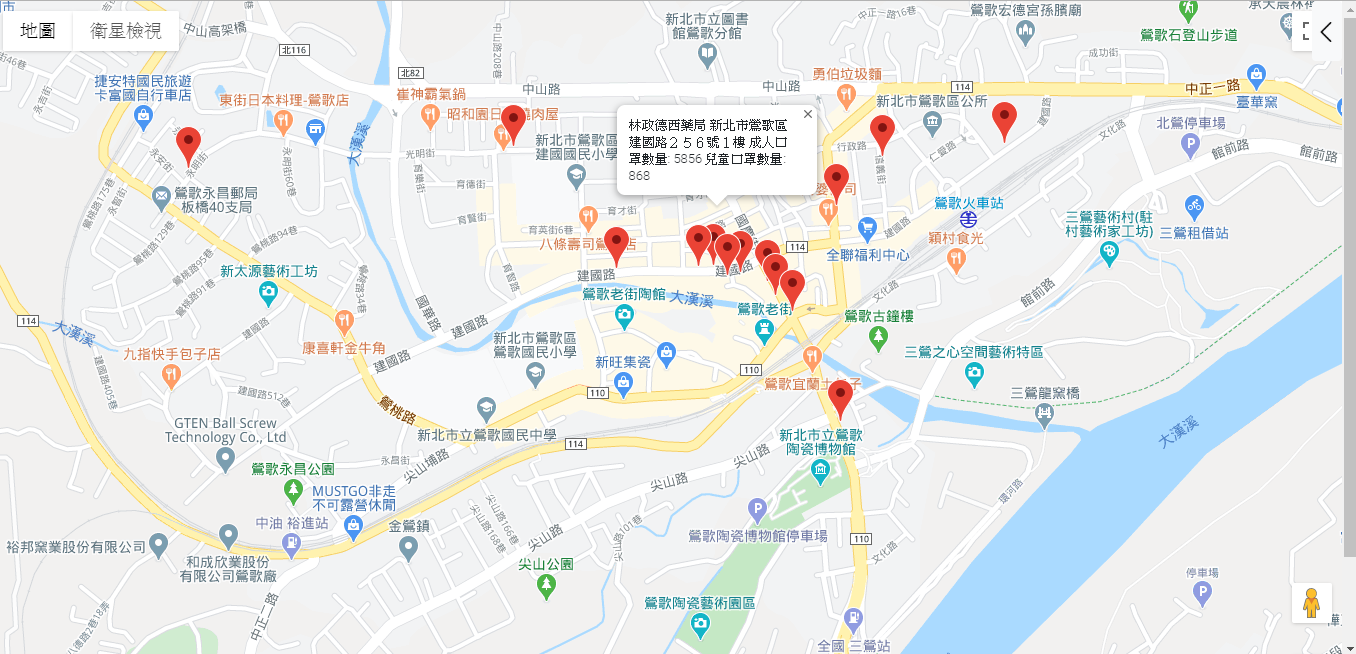
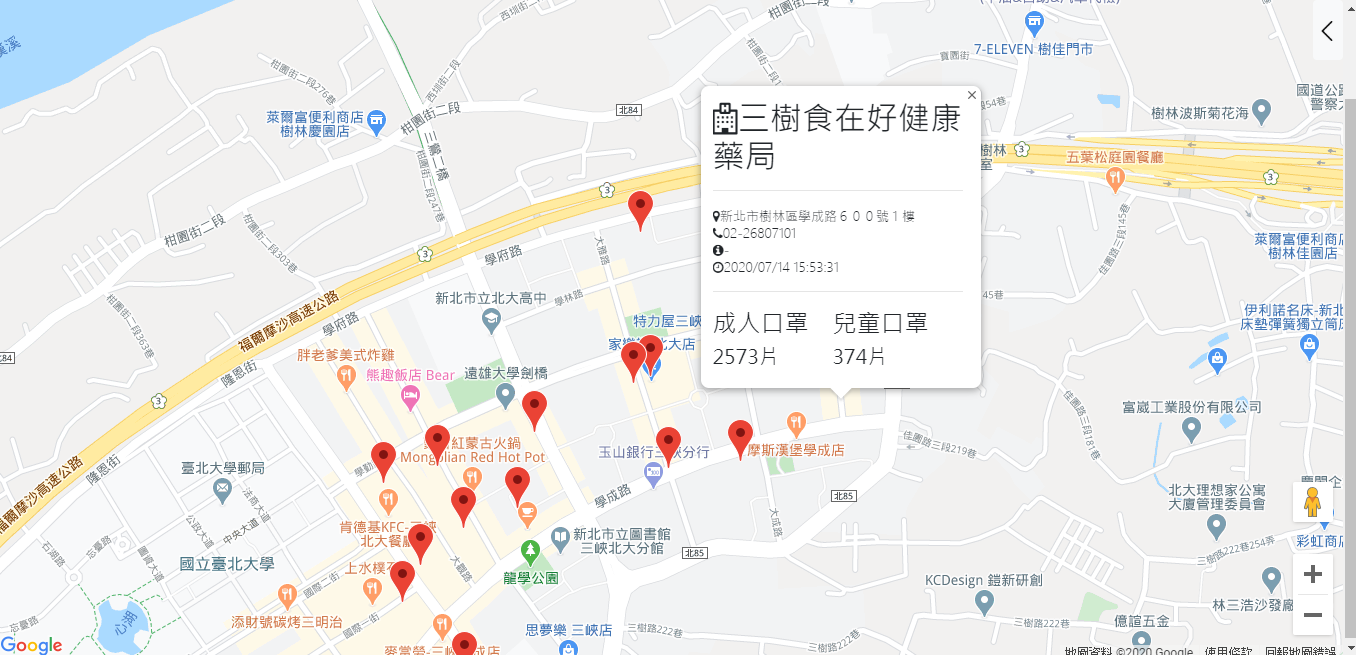
5

diff --git a/practice/mask-map/mask-map.js b/practice/mask-map/mask-map.js
@@ -2,7 +2,7 @@ let map;
 let marker = [];
 let position = [];
 let infowindow = [];
-
+let currentInfoWindow = ''; //Global variable   
 // console.log(position)
 fetch('https://raw.githubusercontent.com/kiang/pharmacies/master/json/points.json')
 .then(res => {
@@ -17,12 +17,34 @@ fetch('https://raw.githubusercontent.com/kiang/pharmacies/master/json/points.jso
     // console.log("lng: " + result.features[0].geometry.coordinates[0])
     // console.log("lat: " + result.features[0].geometry.coordinates[1])
     for(let i = 0; i < result.features.length; i++){
-        let title = result.features[i].properties.name + "\n"
-                  + result.features[i].properties.address + "\n"
-                  + "成人口罩數量: " + result.features[i].properties.mask_adult + "\n"
-                  + "兒童口罩數量: " + result.features[i].properties.mask_child + "\n"
-        let content = title
+        let title   = result.features[i].properties.name + "\n"
+                    + result.features[i].properties.address + "\n"
+                    + "成人口罩數量: " + result.features[i].properties.mask_adult + "\n"
+                    + "兒童口罩數量: " + result.features[i].properties.mask_child + "\n"
+
+        let content = ` <div style="font-family:'微軟正黑體';">
+                            <h2><i class="fa fa-hospital-o" aria-hidden="true"></i>${result.features[i].properties.name}</h2>
+                            <hr>
+                            <div>
+                                <div><i class="fa fa-map-marker" aria-hidden="true"></i>${result.features[i].properties.address}</div>
+                                <div><i class="fa fa-phone" aria-hidden="true"></i></i>${result.features[i].properties.phone}</div>
+                                <div><i class="fa fa-info-circle" aria-hidden="true"></i></i>${result.features[i].properties.note}</div>
+                                <div><i class="fa fa-clock-o" aria-hidden="true"></i></i>${result.features[i].properties.updated}</div>
+                            </div>
+                            <hr>
+                            <div class="d-flex"> 
+                                <div class="mr-4">
+                                    <div><h4>成人口罩</h4></div>
+                                    <div><h5>${result.features[i].properties.mask_adult}片</h5></div>
+                                </div>       
+                                <div>
+                                    <div><h4>兒童口罩</h4></div>
+                                    <div><h5>${result.features[i].properties.mask_child}片</h5></div>
+                                </div>     
+                            </div>
+                        </div>`;
         position.push({title: title,
+                       title1: content,
                        lat: result.features[i].geometry.coordinates[1],
                        lng: result.features[i].geometry.coordinates[0]})
     }
@@ -61,12 +83,12 @@ function initMap() {
           });
 
         infowindow[i] = new google.maps.InfoWindow({
-            content: position[i].title,
+            content: position[i].title1,
             position: {
                 lat: position[i].lat,
                 lng: position[i].lng
             },
-            maxWidth: 200,
+            maxWidth: 280,
             pixelOffset: new google.maps.Size(100, -20) 
         });
         // infowindow.open(map);
@@ -77,7 +99,9 @@ function initMap() {
         });
     }
 
-
+    google.maps.event.addListener('click',function(){
+        infowindow.close();
+    });
 
 
   }

diff --git a/practice/mask-map/infowindow.html b/practice/mask-map/infowindow.html
@@ -1,0 +1,43 @@
+<!doctype html>
+<html lang="en">
+  <head>
+    <title>Title</title>
+    <!-- Required meta tags -->
+    <meta charset="utf-8">
+    <meta name="viewport" content="width=device-width, initial-scale=1, shrink-to-fit=no">
+
+    <!-- Bootstrap CSS -->
+    <link rel="stylesheet" href="https://stackpath.bootstrapcdn.com/bootstrap/4.3.1/css/bootstrap.min.css" integrity="sha384-ggOyR0iXCbMQv3Xipma34MD+dH/1fQ784/j6cY/iJTQUOhcWr7x9JvoRxT2MZw1T" crossorigin="anonymous">
+    <link rel="stylesheet" href="https://stackpath.bootstrapcdn.com/font-awesome/4.7.0/css/font-awesome.min.css">
+  </head>
+  <body>
+      <div>
+        <h2><i class="fa fa-hospital-o" aria-hidden="true"></i>新竹縣尖石鄉衛生所</h2>
+        <hr>
+        <div>
+            <div><i class="fa fa-map-marker" aria-hidden="true"></i>新竹縣尖石鄉嘉樂村２鄰６１號</div>
+            <div><i class="fa fa-phone" aria-hidden="true"></i></i>電話號碼</div>
+            <div><i class="fa fa-calendar" aria-hidden="true"></i></i>營業時間</div>
+            <div><i class="fa fa-info-circle" aria-hidden="true"></i></i>資訊欄</div>
+            <div><i class="fa fa-clock-o" aria-hidden="true"></i></i>更新時間</div>
+        </div>
+        <hr>
+        <div class="d-flex"> 
+            <div>
+                <div>成人口罩</div>
+                <div>305片</div>
+            </div>       
+            <div>
+                <div>兒童口罩</div>
+                <div>305片</div>
+            </div>     
+        </div>
+      </div>
+    
+    <!-- Optional JavaScript -->
+    <!-- jQuery first, then Popper.js, then Bootstrap JS -->
+    <script src="https://code.jquery.com/jquery-3.3.1.slim.min.js" integrity="sha384-q8i/X+965DzO0rT7abK41JStQIAqVgRVzpbzo5smXKp4YfRvH+8abtTE1Pi6jizo" crossorigin="anonymous"></script>
+    <script src="https://cdnjs.cloudflare.com/ajax/libs/popper.js/1.14.7/umd/popper.min.js" integrity="sha384-UO2eT0CpHqdSJQ6hJty5KVphtPhzWj9WO1clHTMGa3JDZwrnQq4sF86dIHNDz0W1" crossorigin="anonymous"></script>
+    <script src="https://stackpath.bootstrapcdn.com/bootstrap/4.3.1/js/bootstrap.min.js" integrity="sha384-JjSmVgyd0p3pXB1rRibZUAYoIIy6OrQ6VrjIEaFf/nJGzIxFDsf4x0xIM+B07jRM" crossorigin="anonymous"></script>
+  </body>
+</html>

diff --git a/practice/mask-map/mask-map.html b/practice/mask-map/mask-map.html
@@ -7,6 +7,7 @@
     
     <!-- Bootstrap CSS -->
     <link rel="stylesheet" href="https://stackpath.bootstrapcdn.com/bootstrap/4.3.1/css/bootstrap.min.css" integrity="sha384-ggOyR0iXCbMQv3Xipma34MD+dH/1fQ784/j6cY/iJTQUOhcWr7x9JvoRxT2MZw1T" crossorigin="anonymous">
+    <link rel="stylesheet" href="https://stackpath.bootstrapcdn.com/font-awesome/4.7.0/css/font-awesome.min.css">
     <link rel="stylesheet" href="mask-map.css">
   </head>
   <body>
